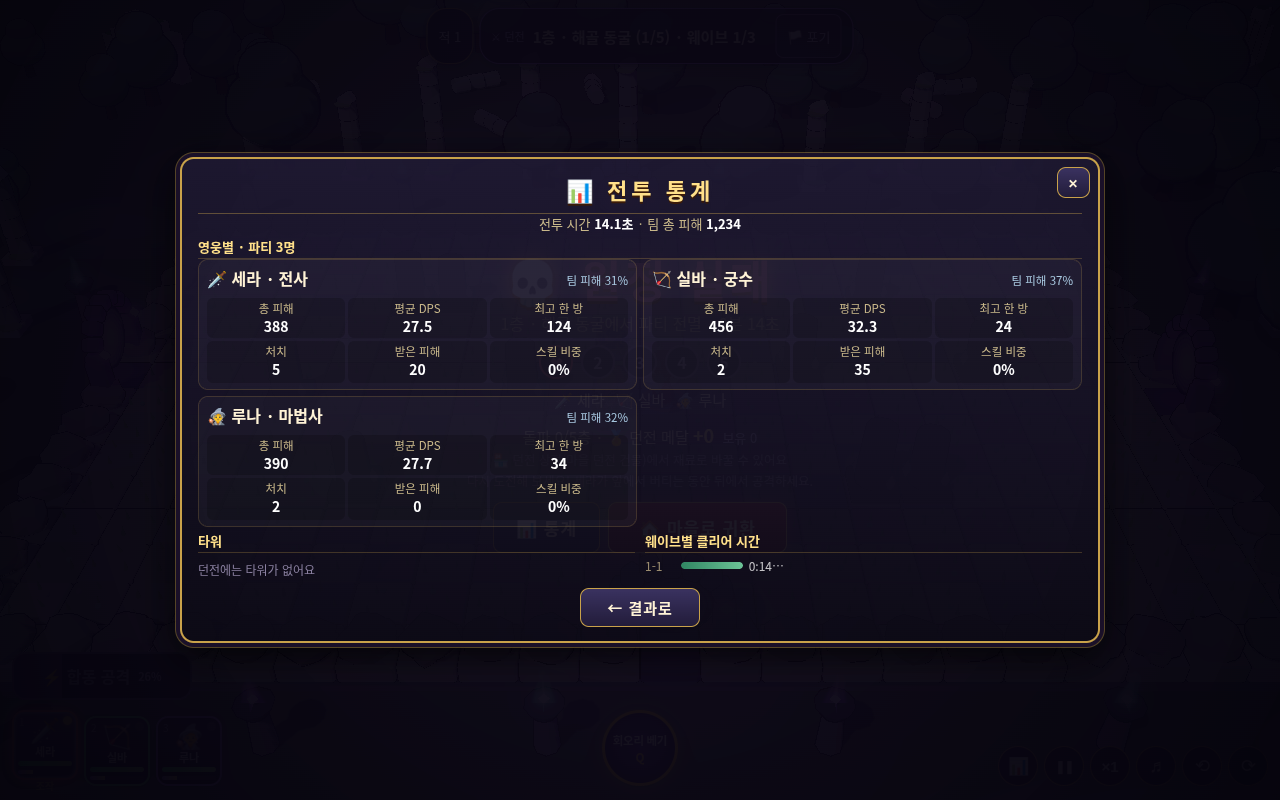
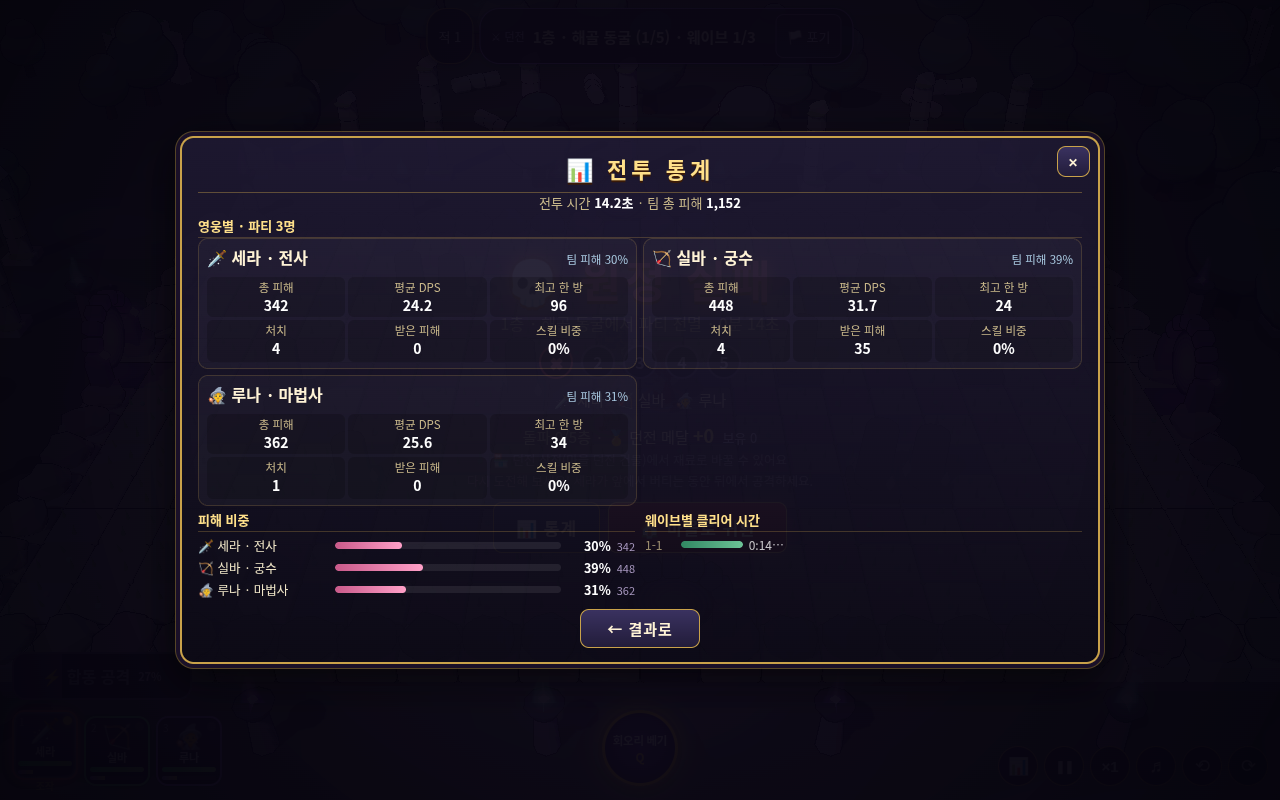
shots/stats/end_* 갱신 · docs: endstats 스위트 전부 통과

diff --git a/docs/ENDSTATS_2026-10-23.md b/docs/ENDSTATS_2026-10-23.md
@@ -17,10 +17,11 @@
 - [x] data/endstats.js + node 테스트
 - [x] ui/endstats.js + 훅 (flow · run · waves · stats.js 키) + CSS + index.html #overStats
 - [x] tests/endstats.py 40/40 (클리어 데스크톱 · 하드 태블릿 48px/화면 안/스크롤 없음 · 패배(열린 판=도전 경로, 진행 중 웨이브) · 던전 파티) + shots/stats/end_clear_desktop · end_tablet · end_over_desktop · end_dungeon
-- [ ] 스위트 단독: node, endstats, stats, tablet, clicks, dungeon, bossblack, chestall, hard, regress
-- [ ] main 병합 · push · Pages 확인
+- [x] 스위트 단독: endstats 40 · node · stats 51 · tablet 252 · clicks 7 · dungeon 102 · bossblack 88 · chestall 70 · hard 33 · regress MATCH (diffs 0, console errors 0)
+- [x] main 병합 · push · Pages 확인
 
 ## 진행 기록
 - 09:45 stats 브랜치 main 병합 0356add push (Pages building 확인 중)
 - 09:47 Pages built 0356add (stats 병합)
 - 10:05 endstats 40/40 (CSS: 막대 안 <b> 와 값 <b> 선택자 분리 `>b`) · 던전 피해 비중 추가 후 전체 큐 시작: endstats node stats tablet clicks dungeon bossblack chestall hard regress
+- 10:44 큐 전부 통과 (bossblack 88 · chestall 70 · hard 33 · regress MATCH) → main 병합 · push
